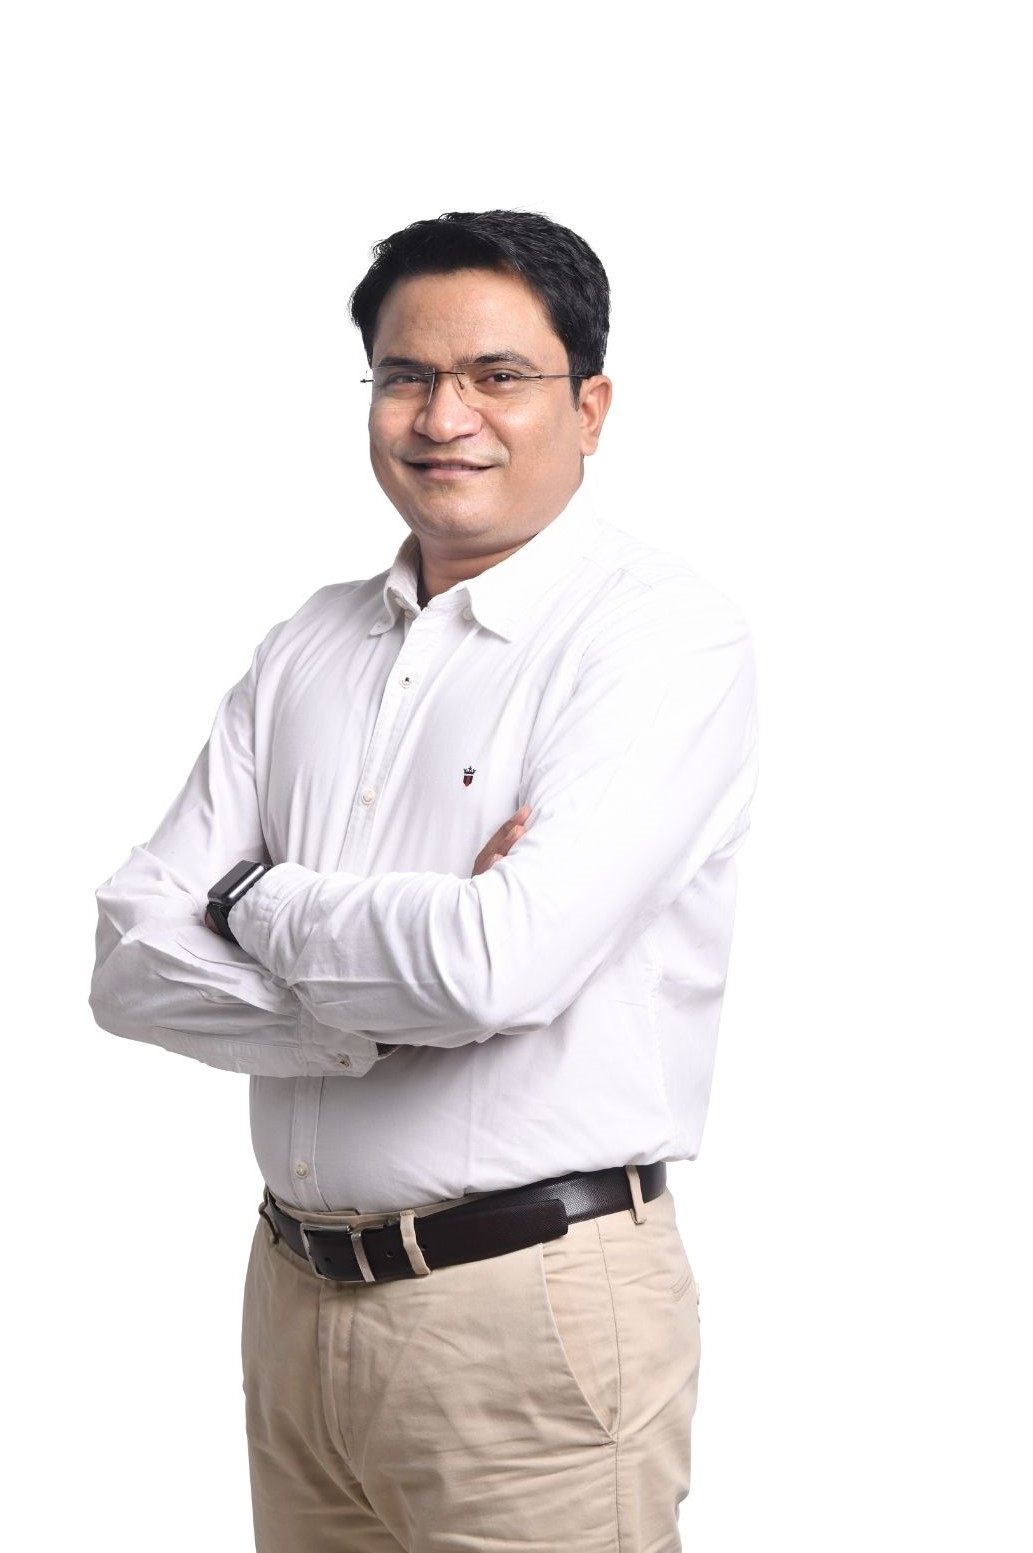
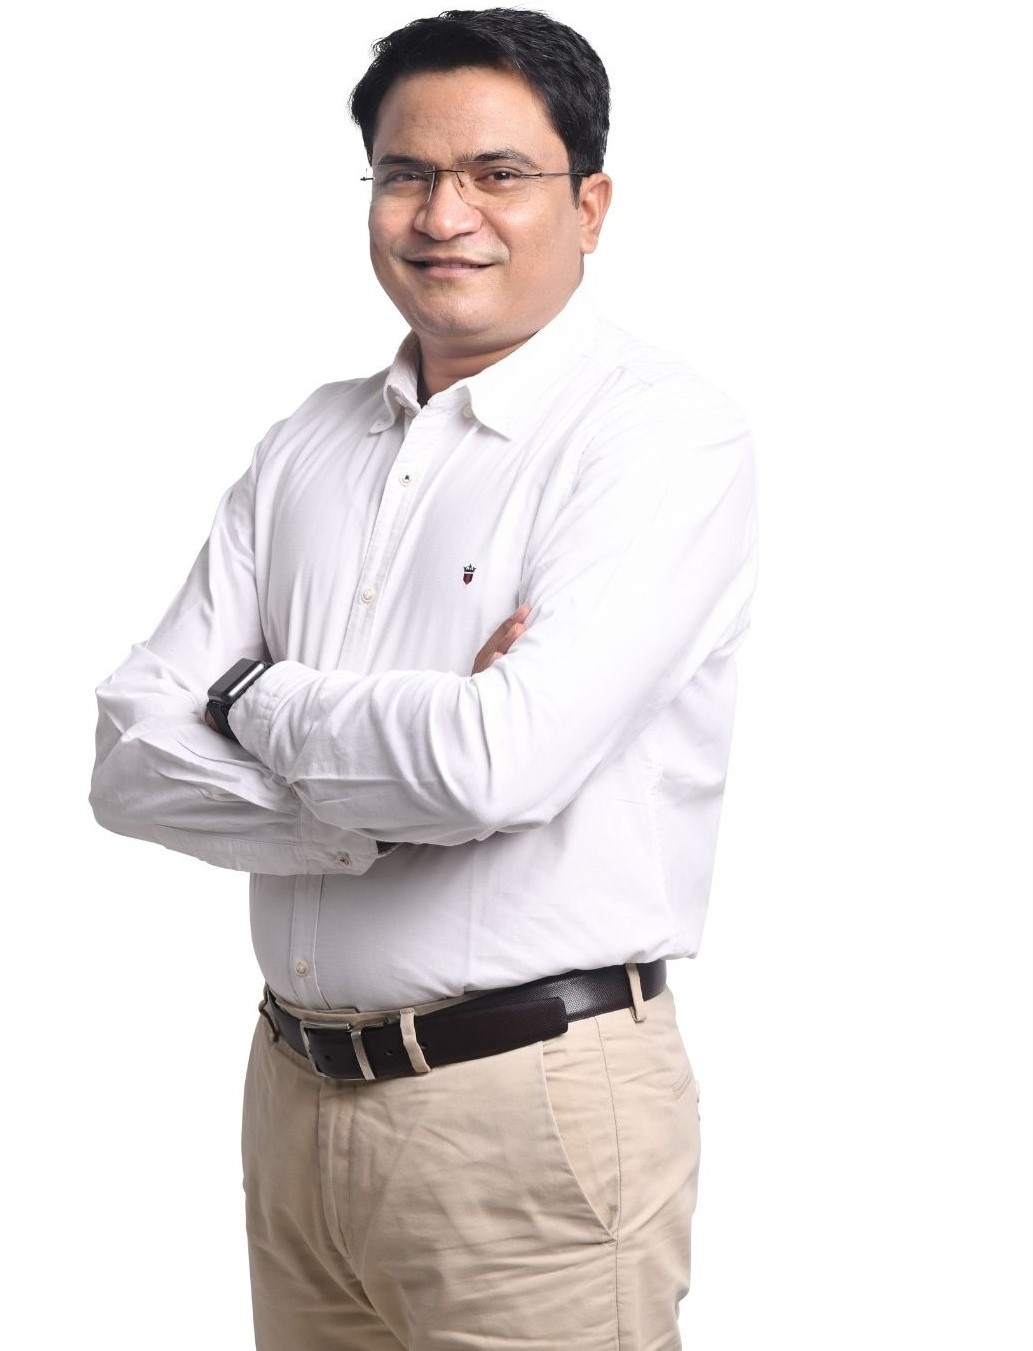
about page update

diff --git a/components/about/DirectorMessage.tsx b/components/about/DirectorMessage.tsx
@@ -5,6 +5,7 @@ import Image from "next/image";
 import { Button } from "@/components/ui/button";
 import { ArrowRight } from "lucide-react";
 import Link from "next/link";
+
 export function DirectorMessage() {
   return (
     <div className="min-h-[50vh] bg-muted/50 text-wrap bg-white">
@@ -17,14 +18,14 @@ export function DirectorMessage() {
           className="grid grid-cols-1 lg:grid-cols-12 gap-32 items-center"
         >
           {/* Text Area - Takes up more space as shown in the image */}
-          <div className="lg:col-span-7 space-y-4 ">
-            <h2 className="text-2xl md:text-3xl font-semibold">
+          <div className="lg:col-span-7 space-y-2 mt-8">
+            <h2 className="text-2xl md:text-3xl font-semibold text-red-600">
               Director&apos;s Message
             </h2>
-            <h2 className="text-2xl md:text-2xl font-semibold">
+            <h2 className="text-2xl md:text-xl font-normal">
               E-Spin Nanotech Pvt. Ltd.
             </h2>
-            <p className="text-lg text-muted-foreground ">
+            <p className="text-lg">
               At E-Spin Nanotech Pvt. Ltd., we are committed to pushing the
               boundaries of nanofiber technology and delivering cutting-edge
               solutions for industries spanning healthcare, filtration, energy,
@@ -33,7 +34,7 @@ export function DirectorMessage() {
               applications, has evolved into a mission of innovation,
               sustainability, and excellence.
             </p>
-            <p className="text-lg text-muted-foreground">
+            <p className="text-lg">
               As a pioneering force in electrospinning technology, we have
               continuously worked towards developing next-generation materials
               that contribute to a cleaner, healthier, and more sustainable
@@ -41,20 +42,23 @@ export function DirectorMessage() {
               unwavering passion for technological advancement, have positioned
               us as a leader in nanotechnology-driven solutions.
             </p>
-            <p className="text-lg text-muted-foreground">
+            <p className="text-lg">
               Our success is built on the dedication of our talented team, the
               trust of our partners, and our relentless pursuit of quality and
               innovation. As we expand our global presence, we remain committed
               to collaborative growth, strategic partnerships, and continuous
               improvement.
             </p>
-            <p className="text-lg text-muted-foreground">
+            <p className="text-lg">
               I extend my heartfelt gratitude to our clients, researchers, and
               stakeholders who have been part of our journey. Together, we will
               continue to shape the future of nanotechnology and redefine
               possibilities.
             </p>
-            <Link href="https://www.linkedin.com/in/dr-sandip-patil-87863814/" legacyBehavior>
+            <Link
+              href="https://www.linkedin.com/in/dr-sandip-patil-87863814/"
+              legacyBehavior
+            >
               <a target="_blank" rel="noopener noreferrer">
                 <Button className="group bg-red-600 mt-2">
                   Dr. Sandip Patil
@@ -68,8 +72,8 @@ export function DirectorMessage() {
           </div>
 
           {/* Image Area - Takes up less space as shown in the image */}
-          <div className="lg:col-span-5">
-            <div className="relative h-[900px] rounded-lg overflow-hidden">
+          <div className="lg:col-span-5 mt-2">
+            <div className="relative h-[900px] overflow-hidden">
               <Image
                 src="/image/sandip patil.jpg"
                 alt="Creative team meeting"
@@ -83,3 +87,97 @@ export function DirectorMessage() {
     </div>
   );
 }
+
+
+
+
+
+
+
+
+
+// "use client";
+
+// import { motion } from "framer-motion";
+// import Image from "next/image";
+// import { Button } from "@/components/ui/button";
+// import { ArrowRight } from "lucide-react";
+// import Link from "next/link";
+// export function DirectorMessage() {
+//   return (
+//     <div className="min-h-[50vh] bg-muted/50 text-wrap bg-white">
+//       <div className=" max-w-7xl mx-auto pl-168">
+//         <motion.div
+//           initial={{ opacity: 0, y: 20 }}
+//           whileInView={{ opacity: 1, y: 0 }}
+//           viewport={{ once: true }}
+//           transition={{ duration: 0.6 }}
+//           className="grid grid-cols-1 lg:grid-cols-12 gap-32 items-center"
+//         >
+//           {/* Text Area - Takes up more space as shown in the image */}
+//           <div className="lg:col-span-7 space-y-1 mt-8">
+//             <h2 className="text-2xl md:text-3xl font-semibold text-red-600">
+//               Director&apos;s Message
+//             </h2>
+//             <h2 className="text-2xl md:text-xl font-normal">
+//               E-Spin Nanotech Pvt. Ltd.
+//             </h2>
+//             <p className="text-lg  ">
+//               At E-Spin Nanotech Pvt. Ltd., we are committed to pushing the
+//               boundaries of nanofiber technology and delivering cutting-edge
+//               solutions for industries spanning healthcare, filtration, energy,
+//               textiles, and beyond. Our journey, which began with a vision to
+//               bridge the gap between academic research and industrial
+//               applications, has evolved into a mission of innovation,
+//               sustainability, and excellence.
+//             </p>
+//             <p className="text-lg ">
+//               As a pioneering force in electrospinning technology, we have
+//               continuously worked towards developing next-generation materials
+//               that contribute to a cleaner, healthier, and more sustainable
+//               future. Our state-of-the-art R&D capabilities, combined with our
+//               unwavering passion for technological advancement, have positioned
+//               us as a leader in nanotechnology-driven solutions.
+//             </p>
+//             <p className="text-lg ">
+//               Our success is built on the dedication of our talented team, the
+//               trust of our partners, and our relentless pursuit of quality and
+//               innovation. As we expand our global presence, we remain committed
+//               to collaborative growth, strategic partnerships, and continuous
+//               improvement.
+//             </p>
+//             <p className="text-lg ">
+//               I extend my heartfelt gratitude to our clients, researchers, and
+//               stakeholders who have been part of our journey. Together, we will
+//               continue to shape the future of nanotechnology and redefine
+//               possibilities.
+//             </p>
+//             <Link href="https://www.linkedin.com/in/dr-sandip-patil-87863814/" legacyBehavior>
+//               <a target="_blank" rel="noopener noreferrer">
+//                 <Button className="group bg-red-600 mt-2">
+//                   Dr. Sandip Patil
+//                   <ArrowRight className="ml-2 h-4 w-4 transition-transform group-hover:translate-x-1" />
+//                 </Button>
+//               </a>
+//             </Link>
+//             <h2 className="text-xl md:text-xl">
+//               Director, E-Spin Nanotech Pvt. Ltd.
+//             </h2>
+//           </div>
+
+//           {/* Image Area - Takes up less space as shown in the image */}
+//           <div className="lg:col-span-5">
+//             <div className="relative h-[980px]  overflow-hidden">
+//               <Image
+//                 src="/image/sandip patil.jpg"
+//                 alt="Creative team meeting"
+//                 fill
+//                 className="object-cover"
+//               />
+//             </div>
+//           </div>
+//         </motion.div>
+//       </div>
+//     </div>
+//   );
+// }

diff --git a/components/contact/WorldMapDemo.tsx b/components/contact/WorldMapDemo.tsx
@@ -30,33 +30,69 @@ export function WorldMapDemo() {
         dots={[
           {
             start: {
-              lat: 64.2008,
-              lng: -149.4937,
-            }, // Alaska (Fairbanks)
+              lat: 26.4499,
+              lng: 80.3319,
+            }, // UP kanpur
             end: {
-              lat: 34.0522,
-              lng: -118.2437,
-            }, // Los Angeles
+              lat: 56.2639,
+              lng: 9.5018,
+            }, // Denmark
           },
           {
-            start: { lat: 64.2008, lng: -149.4937 }, // Alaska (Fairbanks)
-            end: { lat: -15.7975, lng: -47.8919 }, // Brazil (Brasília)
+            start: { lat: 26.4499, lng: 80.3319 }, // UP kanpur
+            end: { lat: 31.0461, lng: 34.8516 }, // israel
           },
           {
-            start: { lat: -15.7975, lng: -47.8919 }, // Brazil (Brasília)
-            end: { lat: 38.7223, lng: -9.1393 }, // Lisbon
+            start: { lat: 26.4499, lng: 80.3319 }, // kanpur UP
+            end: { lat: 35.0078, lng: 97.0929 }, // Oklahoma
           },
           {
-            start: { lat: 51.5074, lng: -0.1278 }, // London
-            end: { lat: 28.6139, lng: 77.209 }, // New Delhi
+            start: { lat: 26.4499, lng: 80.3319 }, // UP kanpur
+            end: { lat: 60.1282, lng: 18.6435 }, // sweden
           },
           {
-            start: { lat: 28.6139, lng: 77.209 }, // New Delhi
-            end: { lat: 43.1332, lng: 131.9113 }, // Vladivostok
+            start: { lat: 26.4499, lng: 80.3319 }, // kanpur UP
+            end: { lat: 23.8859, lng: 45.0792 }, // saudi Arabia 
           },
           {
-            start: { lat: 28.6139, lng: 77.209 }, // New Delhi
-            end: { lat: -1.2921, lng: 36.8219 }, // Nairobi
+            start: { lat: 26.4499, lng: 80.3319 }, // Kanpur UP
+            end: { lat: 26.8206, lng: 30.8025 }, // Egypt
+          },
+          {
+            start: { lat: 26.4499, lng: 80.3319 }, // Kanpur UP
+            end: { lat: 40.4637, lng: 3.7492 }, // Valencia
+          },
+          {
+            start: { lat: 26.4499, lng: 80.3319 }, // Kanpur UP
+            end: { lat: 41.4925, lng: 99.9018 }, // Nebraska
+          },
+          {
+            start: { lat: 26.4499, lng: 80.3319 }, // Kanpur UP
+            end: { lat: 46.2276, lng: 2.2137 }, // France
+          },
+          {
+            start: { lat: 26.4499, lng: 80.3319 }, // Kanpur UP
+            end: { lat: 56.1304, lng: -106.3468 }, // canada
+          },
+          {
+            start: { lat: 26.4499, lng: 80.3319 }, // Kanpur UP
+            end: { lat: 23.6850, lng: 90.3563 }, // Bangladesh
+          },
+          {
+            start: { lat: 26.4499, lng: 80.3319 }, // Kanpur UP
+            end: { lat: 38.7946, lng: -106.5348 }, // United States
+          },
+          {
+            start: { lat: 26.4499, lng: 80.3319 }, // Kanpur UP
+            end: { lat: 28.3949, lng: 84.1240 }, // Napal
+          },
+          {
+            start: { lat: 26.4499, lng: 80.3319 }, // Kanpur UP
+            end: { lat: -30.5595, lng: 22.9375 }, // South Africa
+          },
+          {
+            start: { lat: 26.4499, lng: 80.3319 }, // Kanpur UP
+            end: { lat: 61.5240, lng: 105.3188 }, // Russia
           },
         ]}
       />

diff --git a/components/about/AboutContent.tsx b/components/about/AboutContent.tsx
@@ -4,23 +4,23 @@ import { motion } from "framer-motion";
 
 export function AboutContent() {
   return (
-    <div className="max-w-6xl mx-auto px-2 py-16">
+    <div className="max-w-7xl mx-auto px-2 py-16">
       <motion.div
         initial={{ opacity: 0, y: 20 }}
         animate={{ opacity: 1, y: 0 }}
         transition={{ duration: 0.8, delay: 0.2 }}
-        className="bg-white rounded-2xl shadow-xl p-8 md:p-12 space-y-8 border border-gray-100"
+        className="bg-white rounded-tl-lg rounded-br-lg p-8 md:p-12 space-y-8 border border-red-400 font-normal"
       >
         <div className="space-y-8">
-          <p className="text-lg leading-relaxed text-gray-700">
+          <p className="text-lg  ">
             E-Spin Nanotech Pvt Ltd, a spin off of IIT Kanpur, was founded in 2010 with an aim to tap on the immense potential of nanotechnology for commercial applications & societal benefits. Spearheaded by a team of nanotechnology experts and researchers, we are now established as a global leader in the field of nanofiber membrane technology with advanced manufacturing facilities.
           </p>
 
-          <p className="text-lg leading-relaxed text-gray-700">
+          <p className="text-lg  ">
             We believe nanotechnology will drive significant contributions in the field of air and liquid filter innovations. To work on those innovations our scientists work relentlessly at/in our DSIR recognized R&D facilities. We have different teams of scientists, engineers and internal resources – including design verification centers, prototype capabilities, state-of-the-art laboratories and an advanced manufacturing technology group to help develop innovative solutions that anticipate and exceed the world&apos;s ever-evolving filtration requirements.
           </p>
 
-          <p className="text-lg leading-relaxed text-gray-700">
+          <p className="text-lg  ">
             We have effectively established a significant foothold in the Indian and Global Nanotech Industry owing to our superior technical expertise, cutting-edge equipment, state-of-the-art infrastructure and exceptional client service.
           </p>
         </div>

diff --git a/components/about/TimelineDemo.tsx b/components/about/TimelineDemo.tsx
@@ -25,7 +25,7 @@ export function TimelineDemo() {
       title: "Industry Leader",
       content: (
         <div>
-          <p className="text-neutral-800 dark:text-neutral-200 text-xs md:text-sm font-normal mb-8">
+          <p className="text-neutral-900 dark:text-neutral-200 text-xl md:text-lg font-normal mb-8">
           Since the commissioning of our inaugural nanofiber spinning machine in 2010, we have solidified our position as a trailblazer in the industry, consistently setting new benchmarks for innovation, precision, and technological advancement. Through an unwavering commitment to excellence and continuous research and development, we have redefined industry standards, pushing the boundaries of nanofiber fabrication. Our pioneering efforts and forward-thinking approach empower us to remain at the forefront of nanotechnology, driving transformative advancements that shape the future of the field.
           </p>
           <div className="grid grid-cols-2 gap-4">

diff --git a/components/StatsSection.tsx b/components/StatsSection.tsx
@@ -27,11 +27,11 @@ export function StatsSection() {
           {/* Text Section */}
           <div className="w-full md:w-1/2">
             <h2 className="text-4xl md:text-5xl font-bold mb-8">
-              <span className="text-red-600">One-stop Solution</span>{" "}
+              <span className="text-red-500">One-stop Solution</span>{" "}
               <span className="text-black">for Nanofiber Technology</span>
               <br />
               <span className="text-black">and</span>{" "}
-              <span className="text-red-600">
+              <span className="text-red-5-00">
                 its Commercial Product Development
               </span>
             </h2>

diff --git a/components/about/AboutHero.tsx b/components/about/AboutHero.tsx
@@ -4,7 +4,7 @@ import { motion } from "framer-motion";
 
 export function AboutHero() {
   return (
-    <div className="relative h-[20vh] flex items-center justify-center overflow-hidden mt-20">
+    <div className="relative h-[15vh] flex items-center justify-center overflow-hidden mt-20">
       {/* Gradient background */}
       <div 
         className="absolute inset-0"
